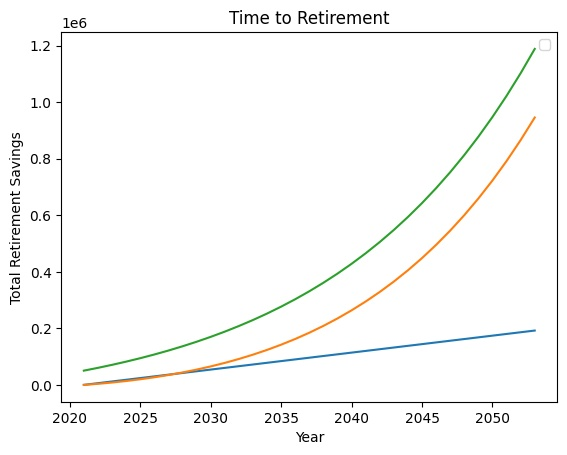
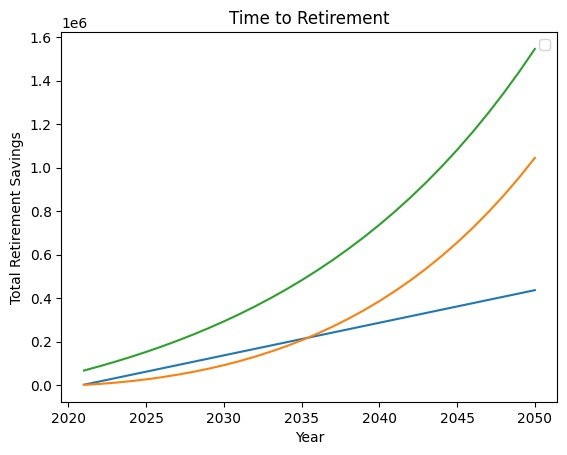
Fixed issue with interest rate display

diff --git a/templates/view_db.html b/templates/view_db.html
@@ -20,6 +20,7 @@
     <th>Update Plan</th>
     <th>Delete Plan</th>
     </thead>
+    <tbody>
     {% for row in rows %}
     <tr>
         <td>{{row.starting_bal}}</td>
@@ -30,14 +31,12 @@
         <td>{{row.interest_earned}}</td>
         <td>{{row.goal_type}}</td>
         <td>{{row.total_contributions}}</td>
-        <td>{{row.years_to_retire}}<td>
-
+        <td>{{row.years_to_retire}}</td>
         <td><form action="{{ url_for('db_operations') }}" method="POST"><button type="submit"  name="update-btn" value="{{row.plan_id}}">Edit</button></form></td>
-
         <td><form action="{{ url_for('db_operations') }}"  method="POST"><button type="submit"  name="delete-btn" value="{{row.plan_id}}">Delete</button></form></td>
-
     </tr>
     {% endfor %}
+    </tbody>
 </table>
 </body>
 </html>

diff --git a/templates/updateplan.html b/templates/updateplan.html
@@ -26,7 +26,7 @@
     <fieldset>
         <legend>Goals and Assumptions</legend>
             <p>
-                <input type="number" name="interest_rate" id="interest_rate" value="{{ interest_rate }}">
+                <input type="number" name="interest_rate" id="interest_rate" value="{{plan_to_edit.int_rate }}">
                 <label for="interest_rate">Interest rate predicted</label>
             </p>
             <p>

diff --git a/static/styles.css b/static/styles.css
@@ -32,8 +32,11 @@
     margin: auto;
 }
 
-table th, td{
+tbody{
 border-spacing: 0px;
+}
+
+td{
 padding: 0px;
 margin: 0px;
 border: 2px solid black;

diff --git a/app.py b/app.py
@@ -82,15 +82,18 @@ def delete_plan():
 def update_plan_submit():
     plan_id_now = int(request.form['update-btn'])
     plan_to_edit = UserPlan.query.get(plan_id_now)
-    interest_rate = math.ceil(int(plan_to_edit.int_rate *100))
-    goal = plan_to_edit.goal
+    plan_to_edit.int_rate = convert_int_rate_for_display(plan_to_edit.int_rate)
+    goal = int(round(plan_to_edit.goal))
     if plan_to_edit.goal_type == "income":
-        goal = plan_to_edit.goal/25
-    return render_template('updateplan.html', plan_to_edit = plan_to_edit, interest_rate=interest_rate, goal=goal)
+        goal = int(plan_to_edit.goal/25)
+    return render_template('updateplan.html', plan_to_edit = plan_to_edit, goal=goal)
 
 
 def view_db():
     rows = UserPlan.query.order_by(UserPlan.time_created)
+    # convert interest rate to correct display  format
+    for row in rows:
+        row.int_rate = convert_int_rate_for_display(row.int_rate)
     return render_template('view_db.html', rows=rows)
 
 
@@ -116,8 +119,7 @@ def update_plan():
     plan_to_edit.total_contributions = updated_plan.total_contributions
     plan_to_edit.years_to_retire = updated_plan.result_calc[0]
     db.session.commit()
-    rows = UserPlan.query.order_by(UserPlan.time_created)
-    return render_template('view_db.html', rows=rows)
+    return view_db()
 
 
 @app.route("/add_plan", methods=['POST', 'GET'])
@@ -138,7 +140,9 @@ def provide_time():
                                monthly_cont=monthly_cont, additional_cont=additional_cont, goal=goal,
                                goal_reached=calc.result_calc[0], interest_earned=round(calc.interest_earned,2),
                                total_cont=calc.total_contributions)
-
+def convert_int_rate_for_display(int_rate):
+    int_rate = int(round((int_rate + .02) * 100))
+    return int_rate
 
 class Calc:
     def __init__(self, starting_bal, int_rate, monthly_cont, extra_cont, goal_type, goal=0):
@@ -152,6 +156,7 @@ class Calc:
         self.goal_type = goal_type
         self.total_contributions = 0
         self.result_calc = self.goal_type_handler()
+
 
 
     def goal_type_handler(self):
